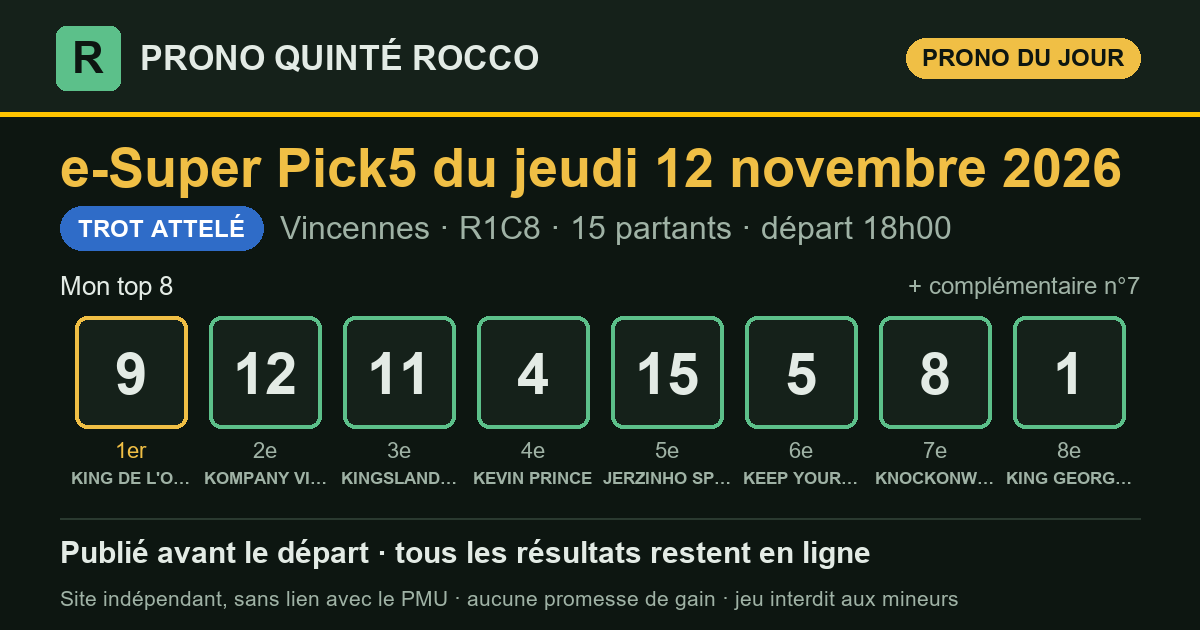
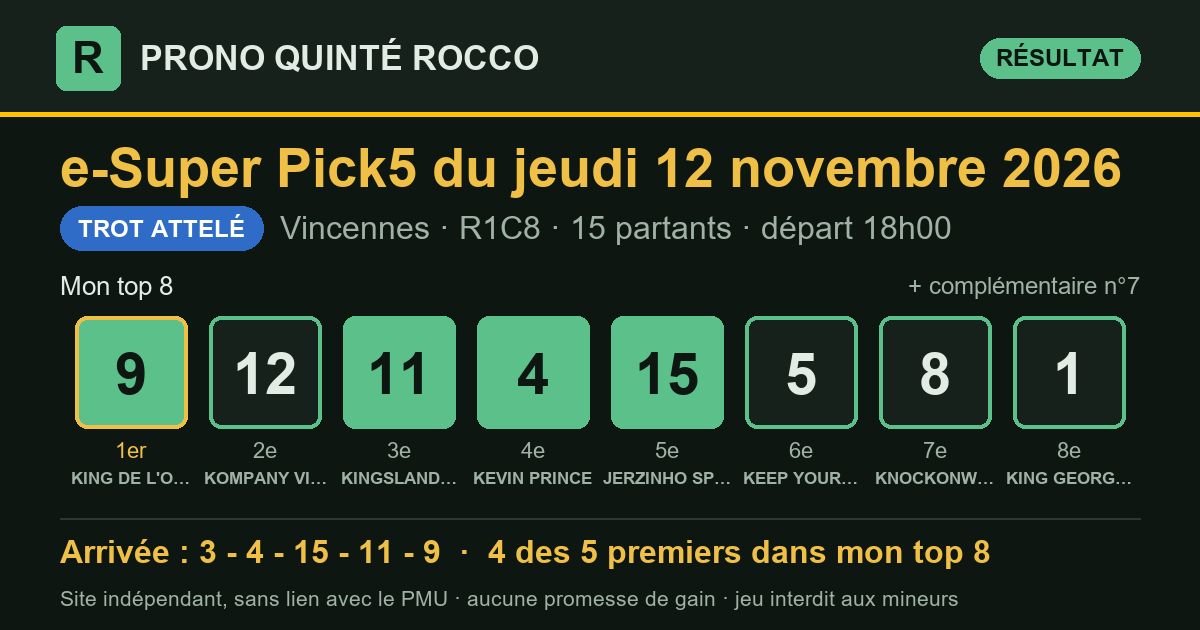
Résultat du e-Super Pick5 2026-11-12 Vincennes R1C8 — publié le 12/11/2026 18:16 (heure de Paris)

diff --git a/superpick5-partants.html b/superpick5-partants.html
@@ -3,7 +3,7 @@
 <head>
 <meta charset="utf-8">
 <meta name="viewport" content="width=device-width, initial-scale=1, viewport-fit=cover">
-<title>Partants du Super Pick 5 du jeudi 12 novembre 2026 : Prix de Cognac — Prono Quinté Rocco</title>
+<title>Partants du Super Pick 5 du vendredi 13 novembre 2026 : Prix Campanus — Prono Quinté Rocco</title>
 <meta name="description" content="Les partants du prochain Super Pick 5 (e-Super Pick5 ; programme officiel du PMU), avec le rang de chaque cheval dans mon prono et les liens vers les pronostics de la presse.">
 <link rel="canonical" href="https://prono-quinte-rocco.fr/superpick5-partants.html">
 <link rel="stylesheet" href="style.css?v=16feb868">
@@ -13,7 +13,7 @@
 <meta property="og:site_name" content="Prono Quinté Rocco">
 <meta property="og:locale" content="fr_FR">
 <meta property="og:type" content="website">
-<meta property="og:title" content="Partants du Super Pick 5 du jeudi 12 novembre 2026 : Prix de Cognac — Prono Quinté Rocco">
+<meta property="og:title" content="Partants du Super Pick 5 du vendredi 13 novembre 2026 : Prix Campanus — Prono Quinté Rocco">
 <meta property="og:description" content="Les partants du prochain Super Pick 5 (e-Super Pick5 ; programme officiel du PMU), avec le rang de chaque cheval dans mon prono et les liens vers les pronostics de la presse.">
 <meta property="og:url" content="https://prono-quinte-rocco.fr/superpick5-partants.html">
 <meta name="twitter:card" content="summary">
@@ -30,95 +30,110 @@
   <p class="surtitre">Programme officiel du PMU</p>
   <h1>Les partants du prochain <span class="nobr">e-Super Pick5</span></h1>
   <div class="fiche-course">
-    <p class="fiche-date">Jeudi 12 novembre 2026</p>
-    <div class="fiche-rc"><span class="pastille" title="Réunion 1">R1</span><span class="pastille" title="Course 8">C8</span><span class="fiche-nom">Prix de Cognac</span></div>
-    <p class="meta"><span class="type t-attele">Trot attelé</span>Vincennes · 2 700 m · 15 partants</p>
-    <p class="fiche-depart">Départ <b>18:00</b> <span>heure de Paris</span></p>
+    <p class="fiche-date">Vendredi 13 novembre 2026</p>
+    <div class="fiche-rc"><span class="pastille" title="Réunion 1">R1</span><span class="pastille" title="Course 1">C1</span><span class="fiche-nom">Prix Campanus</span></div>
+    <p class="meta"><span class="type t-attele">Trot attelé</span>Vincennes · 2 700 m · 18 partants</p>
+    <p class="fiche-depart">Départ <b>18:23</b> <span>heure de Paris</span></p>
   </div>
   <p class="surtitre">Les pronostics ailleurs sur le web</p>
-  <div class="liens"><a class="lien-ext" href="https://www.turfoo.fr/programmes-courses/261112/reunion1-vincennes/course8-prix-de-cognac/pronostics-presse/" rel="noopener" target="_blank"><b>Les pronostics de la presse →</b><span>sur Turfoo (site extérieur)</span></a><a class="lien-ext" href="https://www.geny.com/programme/2026-11-12" rel="noopener" target="_blank"><b>Partants et pronostics →</b><span>programme du jour sur Geny (site extérieur)</span></a></div>
+  <div class="liens"><a class="lien-ext" href="https://www.turfoo.fr/programmes-courses/261113/reunion1-vincennes/course1-prix-campanus/pronostics-presse/" rel="noopener" target="_blank"><b>Les pronostics de la presse →</b><span>sur Turfoo (site extérieur)</span></a><a class="lien-ext" href="https://www.geny.com/programme/2026-11-13" rel="noopener" target="_blank"><b>Partants et pronostics →</b><span>programme du jour sur Geny (site extérieur)</span></a></div>
   <div class="liste-boite"><table class="liste-partants">
     <thead><tr><th>N°</th><th>Cheval</th><th class="cote"><span class="long">Cote du matin</span><span class="court">Cote</span></th>
     <th class="ia"><span class="long">Mon prono</span><span class="court">Prono</span></th></tr></thead>
     <tbody><tr>
   <td><span class="tapis petit">1</span></td>
-  <td><span class="cheval">KING GEORGES</span><span class="sous">D. BONNE · D. BONNE</span></td>
-  <td class="cote num">15,0</td>
-  <td class="ia"><span class="etat place">8<sup>e</sup></span></td>
+  <td><span class="cheval">LE TRESOR KRAAILO</span><span class="sous">V. MARTENS · V. MARTENS</span></td>
+  <td class="cote num">—</td>
+  <td class="ia">—</td>
 </tr><tr>
   <td><span class="tapis petit">2</span></td>
-  <td><span class="cheval">KELMEC</span><span class="sous">M. IONESCU · R. DERIEUX</span></td>
-  <td class="cote num">61,0</td>
+  <td><span class="cheval">L&#x27;IDEALISTE</span><span class="sous">W. BIGEON · W. BIGEON</span></td>
+  <td class="cote num">—</td>
   <td class="ia">—</td>
 </tr><tr>
   <td><span class="tapis petit">3</span></td>
-  <td><span class="cheval">KOALA BLUE</span><span class="sous">L. BAUDRON · L. BAUDRON</span></td>
-  <td class="cote num">49,0</td>
+  <td><span class="cheval">LOU PANTAIL</span><span class="sous">M. IONESCU · R. DERIEUX</span></td>
+  <td class="cote num">—</td>
   <td class="ia">—</td>
 </tr><tr>
   <td><span class="tapis petit">4</span></td>
-  <td><span class="cheval">KEVIN PRINCE</span><span class="sous">M. ABRIVARD · M. ROTHENGATTER</span></td>
-  <td class="cote num">16,0</td>
-  <td class="ia"><span class="etat place">4<sup>e</sup></span></td>
+  <td><span class="cheval">LE POETE BOURBON</span><span class="sous">CH. DAGNICOURT · CH. DAGNICOURT</span></td>
+  <td class="cote num">—</td>
+  <td class="ia">—</td>
 </tr><tr>
   <td><span class="tapis petit">5</span></td>
-  <td><span class="cheval">KEEP YOUR DREAMS</span><span class="sous">M. MOTTIER · M. MOTTIER</span></td>
-  <td class="cote num">13,0</td>
-  <td class="ia"><span class="etat place">6<sup>e</sup></span></td>
+  <td><span class="cheval">LET IT SNOW</span><span class="sous">P.Y. VERVA · J. BAUDRON</span></td>
+  <td class="cote num">—</td>
+  <td class="ia">—</td>
 </tr><tr>
   <td><span class="tapis petit">6</span></td>
-  <td><span class="cheval">JERICHO DU RIB</span><span class="sous">N. PERRON · JOEL HALLAIS</span></td>
-  <td class="cote num">34,0</td>
+  <td><span class="cheval">LUCKY BOY VERTRAC</span><span class="sous">CH. MARTENS · Pavel TAMSIN</span></td>
+  <td class="cote num">—</td>
   <td class="ia">—</td>
 </tr><tr>
   <td><span class="tapis petit">7</span></td>
-  <td><span class="cheval">JEREMY D&#x27;AS</span><span class="sous">TH. DROMIGNY · SEBASTIEN TRIBOURDEAU</span></td>
-  <td class="cote num">40,0</td>
-  <td class="ia"><span class="etat place">compl.</span></td>
+  <td><span class="cheval">LIEGO</span><span class="sous">D. BONNE · B. CARPENTIER</span></td>
+  <td class="cote num">—</td>
+  <td class="ia">—</td>
 </tr><tr>
   <td><span class="tapis petit">8</span></td>
-  <td><span class="cheval">KNOCKONWOOD</span><span class="sous">R. LAMY · R.CH. LARUE</span></td>
-  <td class="cote num">12,0</td>
-  <td class="ia"><span class="etat place">7<sup>e</sup></span></td>
+  <td><span class="cheval">LEADER BOURBON</span><span class="sous">A. COLLETTE · J.PH. MONCLIN</span></td>
+  <td class="cote num">—</td>
+  <td class="ia">—</td>
 </tr><tr>
   <td><span class="tapis petit">9</span></td>
-  <td><span class="cheval">KING DE L&#x27;OUEST</span><span class="sous">B. ROCHARD · S.G. DUPONT</span></td>
-  <td class="cote num">2,2</td>
-  <td class="ia"><span class="etat place">1<sup>er</sup></span></td>
+  <td><span class="cheval">LONGWOOD D&#x27;HERIPRE</span><span class="sous">R. DERIEUX · R. DERIEUX</span></td>
+  <td class="cote num">—</td>
+  <td class="ia">—</td>
 </tr><tr>
   <td><span class="tapis petit">10</span></td>
-  <td><span class="cheval">KENO PETTEVINIERE</span><span class="sous">P.PH. PLOQUIN · S. ROGER</span></td>
-  <td class="cote num">31,0</td>
+  <td><span class="cheval">LEXINGTON DANICA</span><span class="sous">B. ROCHARD · M. SASSIER</span></td>
+  <td class="cote num">—</td>
   <td class="ia">—</td>
 </tr><tr>
   <td><span class="tapis petit">11</span></td>
-  <td><span class="cheval">KINGSLAND DE SIMM</span><span class="sous">A. ABRIVARD · L. GARCIA</span></td>
-  <td class="cote num">15,0</td>
-  <td class="ia"><span class="etat place">3<sup>e</sup></span></td>
+  <td><span class="cheval">L&#x27;AMOUR</span><span class="sous">A. ABRIVARD · N. BAZIRE</span></td>
+  <td class="cote num">—</td>
+  <td class="ia">—</td>
 </tr><tr>
   <td><span class="tapis petit">12</span></td>
-  <td><span class="cheval">KOMPANY VINCENT</span><span class="sous">CH. MARTENS · Sté. Ent. Christophe MARTENS</span></td>
-  <td class="cote num">9,2</td>
-  <td class="ia"><span class="etat place">2<sup>e</sup></span></td>
+  <td><span class="cheval">LODESTAR</span><span class="sous">M. MOTTIER · M. MOTTIER</span></td>
+  <td class="cote num">—</td>
+  <td class="ia">—</td>
 </tr><tr>
   <td><span class="tapis petit">13</span></td>
-  <td><span class="cheval">HAPPY PACHA</span><span class="sous">LEO ABRIVARD · L.CL. ABRIVARD</span></td>
-  <td class="cote num">95,0</td>
+  <td><span class="cheval">LITCHI BAM</span><span class="sous">GUILLAUME MARTIN · Mlle O. TOUILLET</span></td>
+  <td class="cote num">—</td>
   <td class="ia">—</td>
 </tr><tr>
   <td><span class="tapis petit">14</span></td>
-  <td><span class="cheval">KROONER D&#x27;HERIPRE</span><span class="sous">A.A. BOULARD · R. DERIEUX</span></td>
-  <td class="cote num">168,0</td>
+  <td><span class="cheval">LEBOSS D&#x27;HAVAROCHE</span><span class="sous">P.PH. PLOQUIN · J.M. BAUDOUIN</span></td>
+  <td class="cote num">—</td>
   <td class="ia">—</td>
 </tr><tr>
   <td><span class="tapis petit">15</span></td>
-  <td><span class="cheval">JERZINHO SPORT</span><span class="sous">D. THOMAIN · Mme CL. DESMONTILS</span></td>
-  <td class="cote num">7,4</td>
-  <td class="ia"><span class="etat place">5<sup>e</sup></span></td>
+  <td><span class="cheval">LORD FROMENTRO</span><span class="sous">THEO DUVALDESTIN · TH. DUVALDESTIN</span></td>
+  <td class="cote num">—</td>
+  <td class="ia">—</td>
+</tr><tr>
+  <td><span class="tapis petit">16</span></td>
+  <td><span class="cheval">LUXE D&#x27;ERABLE</span><span class="sous">D. THOMAIN · CL. THOMAIN</span></td>
+  <td class="cote num">—</td>
+  <td class="ia">—</td>
+</tr><tr>
+  <td><span class="tapis petit">17</span></td>
+  <td><span class="cheval">LIL BOSS ONLY</span><span class="sous">E. LELIEVRE · E. LELIEVRE</span></td>
+  <td class="cote num">—</td>
+  <td class="ia">—</td>
+</tr><tr>
+  <td><span class="tapis petit">18</span></td>
+  <td><span class="cheval">LAUSSAC DU BUISSON</span><span class="sous">F. NIVARD · TH. RAFFEGEAU</span></td>
+  <td class="cote num">—</td>
+  <td class="ia">—</td>
 </tr></tbody>
   </table></div>
-  <p class="meta">La colonne « Mon prono » donne le rang de chaque cheval dans mon top 8, tel qu&#x27;il est publié sur ce site. Sous chaque cheval : driver · entraîneur. Partants et cotes : programme
-  officiel du PMU, lu le 12/11 à 14:10 (heure de Paris). NP = non-partant.</p>
+  <p class="meta">Mon prono de cette course sera publié le matin de la course, avant le départ. Sous chaque cheval : driver · entraîneur. Partants et cotes : programme
+  officiel du PMU, lu le 12/11 à 18:16 (heure de Paris). NP = non-partant.</p>
 </section>
 </main>
 <footer class="pied">

diff --git a/superpick5.html b/superpick5.html
@@ -16,7 +16,7 @@
 <meta property="og:title" content="Pronostic Super Pick 5 du jeudi 12 novembre 2026 : Prix de Cognac — Prono Quinté Rocco">
 <meta property="og:description" content="Pronostic Super Pick 5 (e-Super Pick5) du jour : mon top 8, publié avant le départ, puis tous les résultats et le rendement réel.">
 <meta property="og:url" content="https://prono-quinte-rocco.fr/superpick5.html">
-<meta property="og:image" content="https://prono-quinte-rocco.fr/partage/sp5-2026-11-12.png?v=1066dcd3">
+<meta property="og:image" content="https://prono-quinte-rocco.fr/partage/sp5-2026-11-12.png?v=dea3395f">
 <meta property="og:image:type" content="image/png">
 <meta property="og:image:width" content="1200">
 <meta property="og:image:height" content="630">
@@ -32,7 +32,7 @@
 <div class="jeux j-sp5" role="navigation" aria-label="Choix du jeu"><a class="jeu jeu-quinte" href="index.html">Quinté+</a><a class="jeu jeu-sp5 actif" href="superpick5.html" aria-current="true">e-Super Pick5<small>entre 17 h et 19 h</small></a></div>
 <main>
 <section class="une" aria-labelledby="t-jour">
-  <p class="surtitre">e-Super Pick5 du jour</p>
+  <p class="surtitre">Dernier e-Super Pick5</p>
   <h1 id="t-jour">Le prono du <span class="nobr">e-Super Pick5</span>, résultats compris</h1>
   <p class="chapo">Le e-Super Pick5 est le nouveau pari du PMU : chaque jour, une course
   dont il faut trouver les cinq premiers. Je l'étudie comme le Quinté+, avec le logiciel
@@ -44,10 +44,13 @@
   <p class="meta">Prix de Cognac · Vincennes · <strong>R1C8</strong> · 15 partants · <span class="lisib">lisibilité <span class="note" aria-label="note 2 sur 5" title="lisibilité 2/5 : course ouverte"><i class="on"></i><i class="on"></i><i class=""></i><i class=""></i><i class=""></i></span> 2/5</span></p>
   <div class="zone-prono">
     <h3 class="zone-titre">Mon top 8</h3>
-    <ol class="partants" aria-label="Mon top 8"><li><span class="rang">1<sup>er</sup></span><span class="tapis ">9</span><span class="nom">KING DE L&#x27;OUEST</span></li><li><span class="rang">2<sup>e</sup></span><span class="tapis ">12</span><span class="nom">KOMPANY VINCENT</span></li><li><span class="rang">3<sup>e</sup></span><span class="tapis ">11</span><span class="nom">KINGSLAND DE SIMM</span></li><li><span class="rang">4<sup>e</sup></span><span class="tapis ">4</span><span class="nom">KEVIN PRINCE</span></li><li><span class="rang">5<sup>e</sup></span><span class="tapis ">15</span><span class="nom">JERZINHO SPORT</span></li><li><span class="rang">6<sup>e</sup></span><span class="tapis ">5</span><span class="nom">KEEP YOUR DREAMS</span></li><li><span class="rang">7<sup>e</sup></span><span class="tapis ">8</span><span class="nom">KNOCKONWOOD</span></li><li><span class="rang">8<sup>e</sup></span><span class="tapis ">1</span><span class="nom">KING GEORGES</span></li><li><span class="rang">compl.</span><span class="tapis creux">7</span><span class="nom">JEREMY D&#x27;AS</span></li></ol>
+    <ol class="partants" aria-label="Mon top 8"><li><span class="rang">1<sup>er</sup></span><span class="tapis plein">9</span><span class="nom">KING DE L&#x27;OUEST</span></li><li><span class="rang">2<sup>e</sup></span><span class="tapis ">12</span><span class="nom">KOMPANY VINCENT</span></li><li><span class="rang">3<sup>e</sup></span><span class="tapis plein">11</span><span class="nom">KINGSLAND DE SIMM</span></li><li><span class="rang">4<sup>e</sup></span><span class="tapis plein">4</span><span class="nom">KEVIN PRINCE</span></li><li><span class="rang">5<sup>e</sup></span><span class="tapis plein">15</span><span class="nom">JERZINHO SPORT</span></li><li><span class="rang">6<sup>e</sup></span><span class="tapis ">5</span><span class="nom">KEEP YOUR DREAMS</span></li><li><span class="rang">7<sup>e</sup></span><span class="tapis ">8</span><span class="nom">KNOCKONWOOD</span></li><li><span class="rang">8<sup>e</sup></span><span class="tapis ">1</span><span class="nom">KING GEORGES</span></li><li><span class="rang">compl.</span><span class="tapis creux">7</span><span class="nom">JEREMY D&#x27;AS</span></li></ol>
     <div class="pied-carte"><span>Analysé le 12/11 à 10:18 · en ligne le 12/11 à 10:20 · départ à 18:00 (heure de Paris)</span><span><a href="superpick5/2026-11-12.html">Détail de la course</a></span></div>
   </div>
-  <div class="zone-arrivee attente"><p>L'arrivée officielle s'affichera ici après la course.</p></div>
+  <div class="zone-arrivee">
+    <div class="zone-tete"><h3 class="zone-titre">Arrivée officielle</h3><span class="etat place">4 des 5 premiers dans mon top 8</span><span class="etat non">mon 1er (n°9) : non placé</span></div>
+    <ol class="partants" aria-label="Arrivée officielle"><li><span class="rang">1<sup>er</sup></span><span class="tapis hors">3</span><span class="nom">KOALA BLUE</span></li><li><span class="rang">2<sup>e</sup></span><span class="tapis plein">4</span><span class="nom">KEVIN PRINCE</span></li><li><span class="rang">3<sup>e</sup></span><span class="tapis plein">15</span><span class="nom">JERZINHO SPORT</span></li><li><span class="rang">4<sup>e</sup></span><span class="tapis plein">11</span><span class="nom">KINGSLAND DE SIMM</span></li><li><span class="rang">5<sup>e</sup></span><span class="tapis plein">9</span><span class="nom">KING DE L&#x27;OUEST</span></li></ol>
+  </div>
 </article>
 </section>
 <section class="suivre" aria-label="Suivre et soutenir">
@@ -77,9 +80,9 @@
 </section>
 <section class="bilan" aria-labelledby="t-bilan">
   <h2 id="t-bilan">Mon bilan depuis le 5 novembre 2026</h2>
-  <div class="tableau chiffres"><div class="case"><span class="gros ">84 %</span><span class="lib">des arrivants trouvés dans mon top 8</span><span class="ref">un top 8 tiré au hasard : 55 %</span></div><div class="case"><span class="gros ">80 %</span><span class="lib">des gagnants présents dans mon top 8</span><span class="ref"></span></div><div class="case"><span class="gros ">80 %</span><span class="lib">mon 1er placé</span><span class="ref">sur 5 Super Pick5</span></div><div class="case"><span class="gros gain">1,26 €</span><span class="lib">rendus pour 1 € joué placé sur mon 1er</span><span class="ref">rapports officiels PMU</span></div><div class="case"><span class="gros gain">1,28 €</span><span class="lib">rendus pour 1 € joué en e-Super Pick5 combiné sur mon top 8</span><span class="ref">56 combinaisons, rapports PMU.fr, sur 5 Super Pick5</span></div></div>
+  <div class="tableau chiffres"><div class="case"><span class="gros ">83 %</span><span class="lib">des arrivants trouvés dans mon top 8</span><span class="ref">un top 8 tiré au hasard : 55 %</span></div><div class="case"><span class="gros ">67 %</span><span class="lib">des gagnants présents dans mon top 8</span><span class="ref"></span></div><div class="case"><span class="gros ">80 %</span><span class="lib">mon 1er placé</span><span class="ref">sur 5 Super Pick5</span></div><div class="case"><span class="gros gain">1,26 €</span><span class="lib">rendus pour 1 € joué placé sur mon 1er</span><span class="ref">rapports officiels PMU</span></div><div class="case"><span class="gros gain">1,07 €</span><span class="lib">rendus pour 1 € joué en e-Super Pick5 combiné sur mon top 8</span><span class="ref">56 combinaisons, rapports PMU.fr, sur 6 Super Pick5</span></div></div>
   <p class="avertissement">Des résultats passés ne disent rien des courses à venir. Ce prono sert à analyser une course, pas à promettre un gain.</p>
-  <p class="avertissement">Sur 5 courses seulement : beaucoup trop peu pour en tirer quoi que ce soit.</p>
+  <p class="avertissement">Sur 6 courses seulement : beaucoup trop peu pour en tirer quoi que ce soit.</p>
 </section>
 <section class="texte en-bref" aria-labelledby="t-bref">
   <h2 id="t-bref">Le e-Super Pick5 en bref</h2>

diff --git a/superpick5/2026-11-12.html b/superpick5/2026-11-12.html
@@ -16,7 +16,7 @@
 <meta property="og:title" content="Pronostic Super Pick 5 du jeudi 12 novembre 2026 : Prix de Cognac à Vincennes — Prono Quinté Rocco">
 <meta property="og:description" content="Prono Super Pick 5 (e-Super Pick5) du jeudi 12 novembre 2026 (Prix de Cognac, Vincennes) : mon top 8, l&#x27;arrivée officielle et les rapports PMU.fr.">
 <meta property="og:url" content="https://prono-quinte-rocco.fr/superpick5/2026-11-12.html">
-<meta property="og:image" content="https://prono-quinte-rocco.fr/partage/sp5-2026-11-12.png?v=1066dcd3">
+<meta property="og:image" content="https://prono-quinte-rocco.fr/partage/sp5-2026-11-12.png?v=dea3395f">
 <meta property="og:image:type" content="image/png">
 <meta property="og:image:width" content="1200">
 <meta property="og:image:height" content="630">
@@ -36,15 +36,25 @@
   <h1>Pronostic <span class="nobr">e-Super Pick5</span> du jeudi 12 novembre 2026</h1>
   <p class="chapo">Prix de Cognac · Vincennes · R1C8 · Attelé · 15 partants</p>
   <article class="carte-course">
-  <div class="tete"><h2>Mon prono</h2><span class="type t-attele">Trot attelé</span></div>
+  <div class="tete"><h2>Mon prono et l&#x27;arrivée officielle</h2><span class="type t-attele">Trot attelé</span></div>
   <p class="meta">Prix de Cognac · Vincennes · <strong>R1C8</strong> · 15 partants · <span class="lisib">lisibilité <span class="note" aria-label="note 2 sur 5" title="lisibilité 2/5 : course ouverte"><i class="on"></i><i class="on"></i><i class=""></i><i class=""></i><i class=""></i></span> 2/5</span></p>
   <div class="zone-prono">
     <h3 class="zone-titre">Mon top 8</h3>
-    <ol class="partants" aria-label="Mon top 8"><li><span class="rang">1<sup>er</sup></span><span class="tapis ">9</span><span class="nom">KING DE L&#x27;OUEST</span></li><li><span class="rang">2<sup>e</sup></span><span class="tapis ">12</span><span class="nom">KOMPANY VINCENT</span></li><li><span class="rang">3<sup>e</sup></span><span class="tapis ">11</span><span class="nom">KINGSLAND DE SIMM</span></li><li><span class="rang">4<sup>e</sup></span><span class="tapis ">4</span><span class="nom">KEVIN PRINCE</span></li><li><span class="rang">5<sup>e</sup></span><span class="tapis ">15</span><span class="nom">JERZINHO SPORT</span></li><li><span class="rang">6<sup>e</sup></span><span class="tapis ">5</span><span class="nom">KEEP YOUR DREAMS</span></li><li><span class="rang">7<sup>e</sup></span><span class="tapis ">8</span><span class="nom">KNOCKONWOOD</span></li><li><span class="rang">8<sup>e</sup></span><span class="tapis ">1</span><span class="nom">KING GEORGES</span></li><li><span class="rang">compl.</span><span class="tapis creux">7</span><span class="nom">JEREMY D&#x27;AS</span></li></ol>
+    <ol class="partants" aria-label="Mon top 8"><li><span class="rang">1<sup>er</sup></span><span class="tapis plein">9</span><span class="nom">KING DE L&#x27;OUEST</span></li><li><span class="rang">2<sup>e</sup></span><span class="tapis ">12</span><span class="nom">KOMPANY VINCENT</span></li><li><span class="rang">3<sup>e</sup></span><span class="tapis plein">11</span><span class="nom">KINGSLAND DE SIMM</span></li><li><span class="rang">4<sup>e</sup></span><span class="tapis plein">4</span><span class="nom">KEVIN PRINCE</span></li><li><span class="rang">5<sup>e</sup></span><span class="tapis plein">15</span><span class="nom">JERZINHO SPORT</span></li><li><span class="rang">6<sup>e</sup></span><span class="tapis ">5</span><span class="nom">KEEP YOUR DREAMS</span></li><li><span class="rang">7<sup>e</sup></span><span class="tapis ">8</span><span class="nom">KNOCKONWOOD</span></li><li><span class="rang">8<sup>e</sup></span><span class="tapis ">1</span><span class="nom">KING GEORGES</span></li><li><span class="rang">compl.</span><span class="tapis creux">7</span><span class="nom">JEREMY D&#x27;AS</span></li></ol>
     <div class="pied-carte"><span>Analysé le 12/11 à 10:18 · en ligne le 12/11 à 10:20 · départ à 18:00 (heure de Paris)</span><span></span></div>
   </div>
-  <div class="zone-arrivee attente"><p>L'arrivée officielle s'affichera ici après la course.</p></div>
+  <div class="zone-arrivee">
+    <div class="zone-tete"><h3 class="zone-titre">Arrivée officielle</h3><span class="etat place">4 des 5 premiers dans mon top 8</span><span class="etat non">mon 1er (n°9) : non placé</span></div>
+    <ol class="partants" aria-label="Arrivée officielle"><li><span class="rang">1<sup>er</sup></span><span class="tapis hors">3</span><span class="nom">KOALA BLUE</span></li><li><span class="rang">2<sup>e</sup></span><span class="tapis plein">4</span><span class="nom">KEVIN PRINCE</span></li><li><span class="rang">3<sup>e</sup></span><span class="tapis plein">15</span><span class="nom">JERZINHO SPORT</span></li><li><span class="rang">4<sup>e</sup></span><span class="tapis plein">11</span><span class="nom">KINGSLAND DE SIMM</span></li><li><span class="rang">5<sup>e</sup></span><span class="tapis plein">9</span><span class="nom">KING DE L&#x27;OUEST</span></li></ol>
+  </div>
 </article>
+<section class="carte-course rapports" aria-labelledby="t-rap">
+  <div class="tete"><h2 id="t-rap">Les rapports</h2></div>
+  <div class="deux">
+    <div><h3>Ce qu'aurait rendu mon prono</h3><dl class="kv"><dt>1 € placé sur mon 1er (n°9)</dt><dd>rapport manquant</dd><dt>1 € gagnant sur mon 1er</dt><dd>rapport manquant</dd><dt>e-Super Pick5 combiné sur mon top 8 (mise 112 €)</dt><dd class="perte">0,00 €</dd><dd class="dont">aucune combinaison gagnante</dd></dl></div>
+    <div><h3>Rapports officiels</h3><dl class="kv"><dt>e-Super Pick5 Ordre (2 €)</dt><dd>pas de gagnant</dd><dt>e-Super Pick5 Super Désordre (2 €)</dt><dd>1 577,80 €</dd><dt>e-Super Pick5 Désordre (2 €)</dt><dd>443,60 €</dd></dl></div>
+  </div>
+</section>
 </section>
 </main>
 <footer class="pied">

diff --git a/superpick5-resultats.html b/superpick5-resultats.html
@@ -52,12 +52,12 @@
     <th colspan="4" class="res g-res">Le résultat officiel</th></tr>
     <tr><th>Date</th><th>Course</th><th>Top 8</th><th class="c-lis">Lisibilité</th><th class="res c-arr">Arrivée</th>
     <th class="res">Trouvés</th><th class="res">Mon 1er</th><th class="res mont">Super Pick5 top 8<br><small>(mise 112 €)</small></th></tr></thead>
-    <tbody><tr class="attente">
+    <tbody><tr>
   <td class="c-date"><a href="superpick5/2026-11-12.html">12/11</a></td>
   <td class="c-course">Vincennes<br><span class="meta">R1C8</span><span class="type t-attele petit">Attelé</span></td>
-  <td class="c-top8" data-label="Mon top 8"><div class="rangee"><span class="tapis petit">9</span><span class="tapis petit">12</span><span class="tapis petit">11</span><span class="tapis petit">4</span><span class="tapis petit">15</span><span class="tapis petit">5</span><span class="tapis petit">8</span><span class="tapis petit">1</span></div></td>
+  <td class="c-top8" data-label="Mon top 8"><div class="rangee"><span class="tapis plein petit">9</span><span class="tapis petit">12</span><span class="tapis plein petit">11</span><span class="tapis plein petit">4</span><span class="tapis plein petit">15</span><span class="tapis petit">5</span><span class="tapis petit">8</span><span class="tapis petit">1</span></div></td>
   <td class="c-lis" data-label="Lisibilité"><span class="note" aria-label="note 2 sur 5" title="lisibilité 2/5 : course ouverte"><i class="on"></i><i class="on"></i><i class=""></i><i class=""></i><i class=""></i></span> 2/5</td>
-  <td class="res c-arr" data-label="Arrivée"><span class="etat attente">en attente</span></td><td class="res num c-trouves" data-label="Trouvés">—</td><td class="res c-premier" data-label="Mon 1er"><span class="etat attente">—</span></td><td class="res mont c-mont" data-label="Super Pick5 top 8 (mise 112 €)">—</td>
+  <td class="res c-arr" data-label="Arrivée"><div class="rangee"><span class="tapis hors petit" title="1er">3</span><span class="tapis plein petit" title="2e">4</span><span class="tapis plein petit" title="3e">15</span><span class="tapis plein petit" title="4e">11</span><span class="tapis plein petit" title="5e">9</span></div></td><td class="res num c-trouves" data-label="Trouvés"><span class="etat place" title="4 des 5 premiers sont dans mon top 8">4/5</span></td><td class="res c-premier" data-label="Mon 1er"><span class="etat non">non placé</span></td><td class="res mont c-mont perte" data-label="Super Pick5 top 8 (mise 112 €)" title="perte nette : 112,00 €">0,00 €</td>
 </tr><tr>
   <td class="c-date"><a href="superpick5/2026-11-11.html">11/11</a></td>
   <td class="c-course">Toulouse<br><span class="meta">R1C7</span><span class="type t-plat petit">Plat</span></td>
@@ -103,9 +103,9 @@
 </section>
 <section class="bilan" aria-labelledby="t-bilan">
   <h2 id="t-bilan">Mon bilan depuis le 5 novembre 2026</h2>
-  <div class="tableau chiffres"><div class="case"><span class="gros ">84 %</span><span class="lib">des arrivants trouvés dans mon top 8</span><span class="ref">un top 8 tiré au hasard : 55 %</span></div><div class="case"><span class="gros ">80 %</span><span class="lib">des gagnants présents dans mon top 8</span><span class="ref"></span></div><div class="case"><span class="gros ">80 %</span><span class="lib">mon 1er placé</span><span class="ref">sur 5 Super Pick5</span></div><div class="case"><span class="gros gain">1,26 €</span><span class="lib">rendus pour 1 € joué placé sur mon 1er</span><span class="ref">rapports officiels PMU</span></div><div class="case"><span class="gros gain">1,28 €</span><span class="lib">rendus pour 1 € joué en e-Super Pick5 combiné sur mon top 8</span><span class="ref">56 combinaisons, rapports PMU.fr, sur 5 Super Pick5</span></div></div>
+  <div class="tableau chiffres"><div class="case"><span class="gros ">83 %</span><span class="lib">des arrivants trouvés dans mon top 8</span><span class="ref">un top 8 tiré au hasard : 55 %</span></div><div class="case"><span class="gros ">67 %</span><span class="lib">des gagnants présents dans mon top 8</span><span class="ref"></span></div><div class="case"><span class="gros ">80 %</span><span class="lib">mon 1er placé</span><span class="ref">sur 5 Super Pick5</span></div><div class="case"><span class="gros gain">1,26 €</span><span class="lib">rendus pour 1 € joué placé sur mon 1er</span><span class="ref">rapports officiels PMU</span></div><div class="case"><span class="gros gain">1,07 €</span><span class="lib">rendus pour 1 € joué en e-Super Pick5 combiné sur mon top 8</span><span class="ref">56 combinaisons, rapports PMU.fr, sur 6 Super Pick5</span></div></div>
   <p class="avertissement">Des résultats passés ne disent rien des courses à venir. Ce prono sert à analyser une course, pas à promettre un gain.</p>
-  <p class="avertissement">Sur 5 courses seulement : beaucoup trop peu pour en tirer quoi que ce soit.</p>
+  <p class="avertissement">Sur 6 courses seulement : beaucoup trop peu pour en tirer quoi que ce soit.</p>
 </section>
 </main>
 <footer class="pied">

diff --git a/index.html b/index.html
@@ -16,7 +16,7 @@
 <meta property="og:title" content="Pronostics Quinté+ et Super Pick 5 du jeudi 12 novembre 2026 — Prono Quinté Rocco">
 <meta property="og:description" content="Pronostics Quinté+ (Prix Marcel Laurent) et Super Pick 5 (Prix de Cognac) du jour : mes top 8, publiés avant le départ, puis tous les résultats et le rendement réel.">
 <meta property="og:url" content="https://prono-quinte-rocco.fr/">
-<meta property="og:image" content="https://prono-quinte-rocco.fr/partage/jour-2026-11-12.png?v=64ffb41f">
+<meta property="og:image" content="https://prono-quinte-rocco.fr/partage/jour-2026-11-12.png?v=a8a5b7f8">
 <meta property="og:image:type" content="image/png">
 <meta property="og:image:width" content="1200">
 <meta property="og:image:height" content="630">

diff --git a/partants.html b/partants.html
@@ -133,7 +133,7 @@
 </tr></tbody>
   </table></div>
   <p class="meta">Mon prono de cette course sera publié le matin de la course, avant le départ. Sous chaque cheval : driver · entraîneur. Partants et cotes : programme
-  officiel du PMU, lu le 12/11 à 14:10 (heure de Paris). NP = non-partant.</p>
+  officiel du PMU, lu le 12/11 à 18:16 (heure de Paris). NP = non-partant.</p>
 </section>
 </main>
 <footer class="pied">
